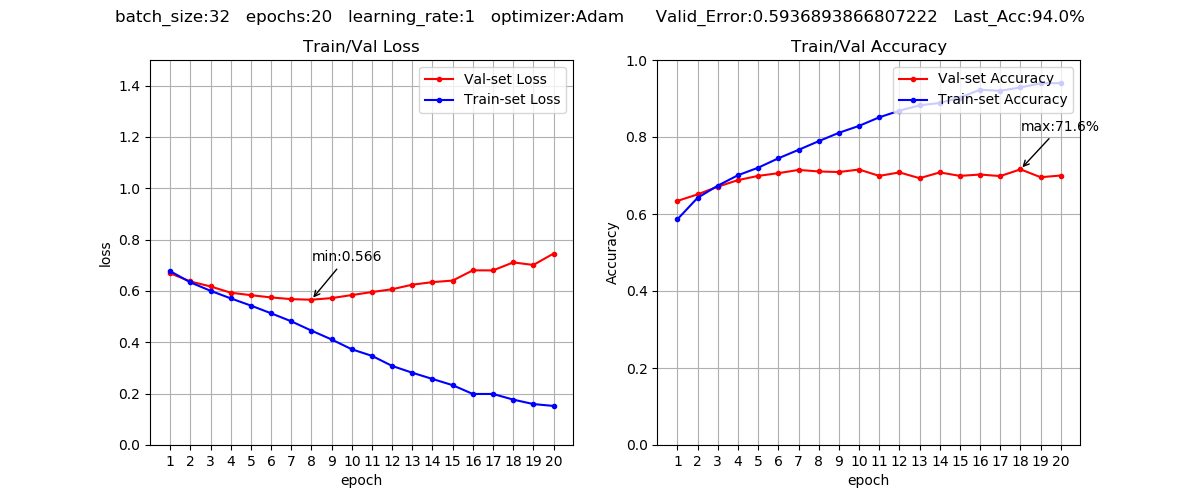
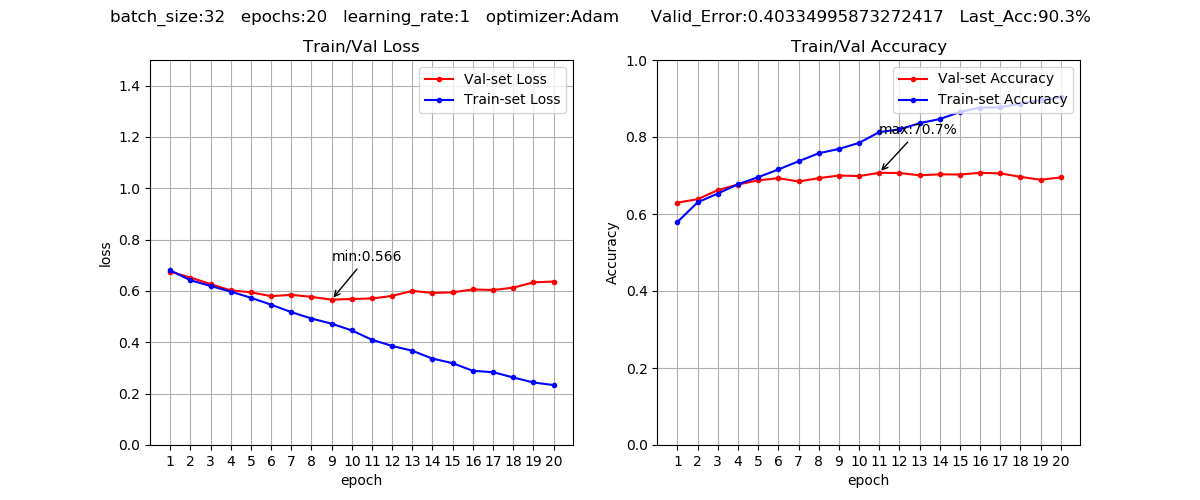
Last Accuracy: 0.903 Valid error: 0.40334995873272417

diff --git a/main.py b/main.py
@@ -145,7 +145,9 @@ class ModelMgr():
         model.add(Dropout(nDropout))
         model.add(Dropout(nDropout))
         model.add(Dropout(nDropout))
+        model.add(Dropout(nDropout))
         model.add(Conv2D(64, (2, 2), activation='relu'))
+        model.add(Dropout(nDropout))
         model.add(Dropout(nDropout))
         model.add(Dropout(nDropout))
         model.add(Dropout(nDropout))
@@ -161,10 +163,12 @@ class ModelMgr():
         model.add(Dropout(nDropout))
         model.add(Dropout(nDropout))
         model.add(Dropout(nDropout))
+        model.add(Dropout(nDropout))
 
 
         model.add(Flatten())
         model.add(Dense(256, activation='relu', kernel_initializer='glorot_uniform'))
+        model.add(Dropout(nDropout))
         model.add(Dropout(nDropout))
         model.add(Dropout(nDropout))
         model.add(Dropout(nDropout))
